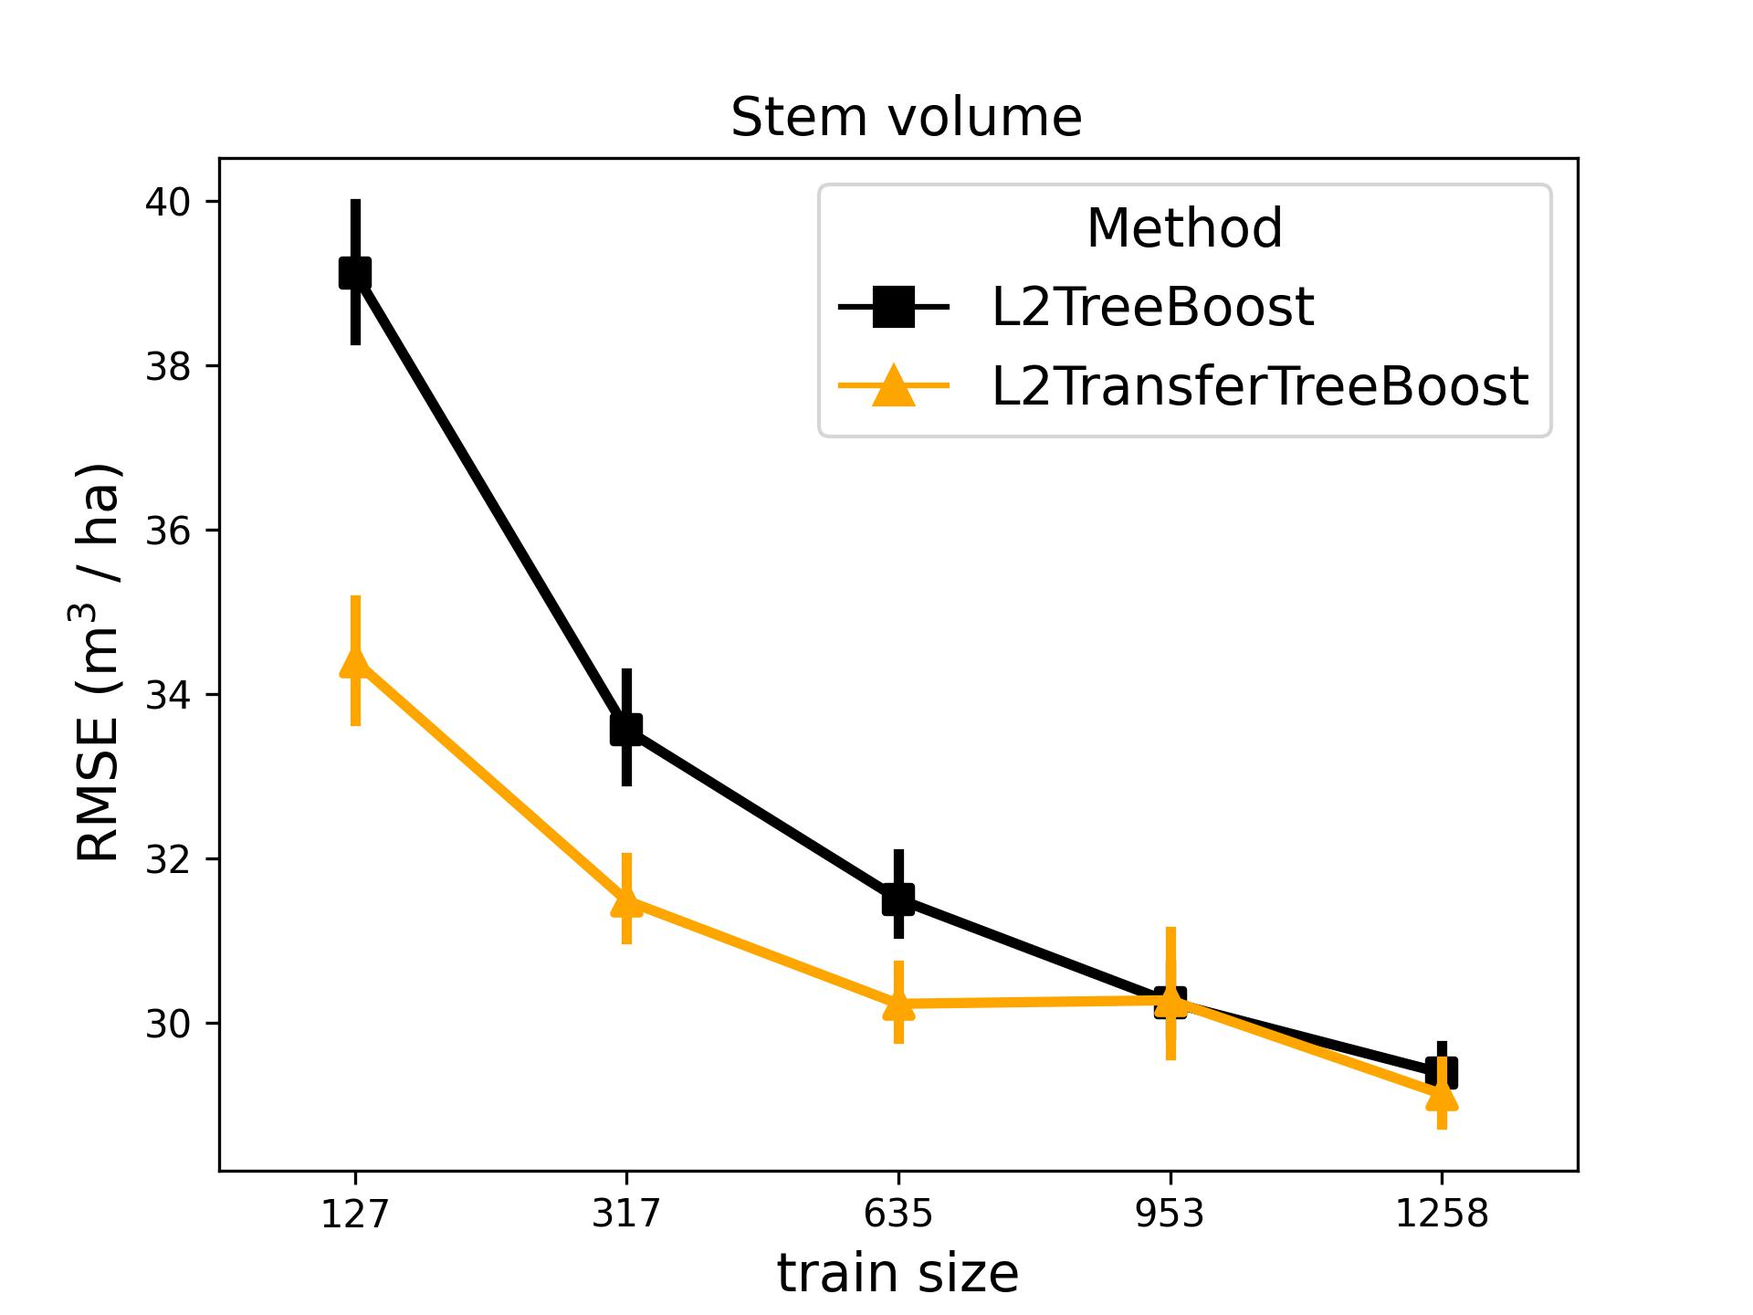
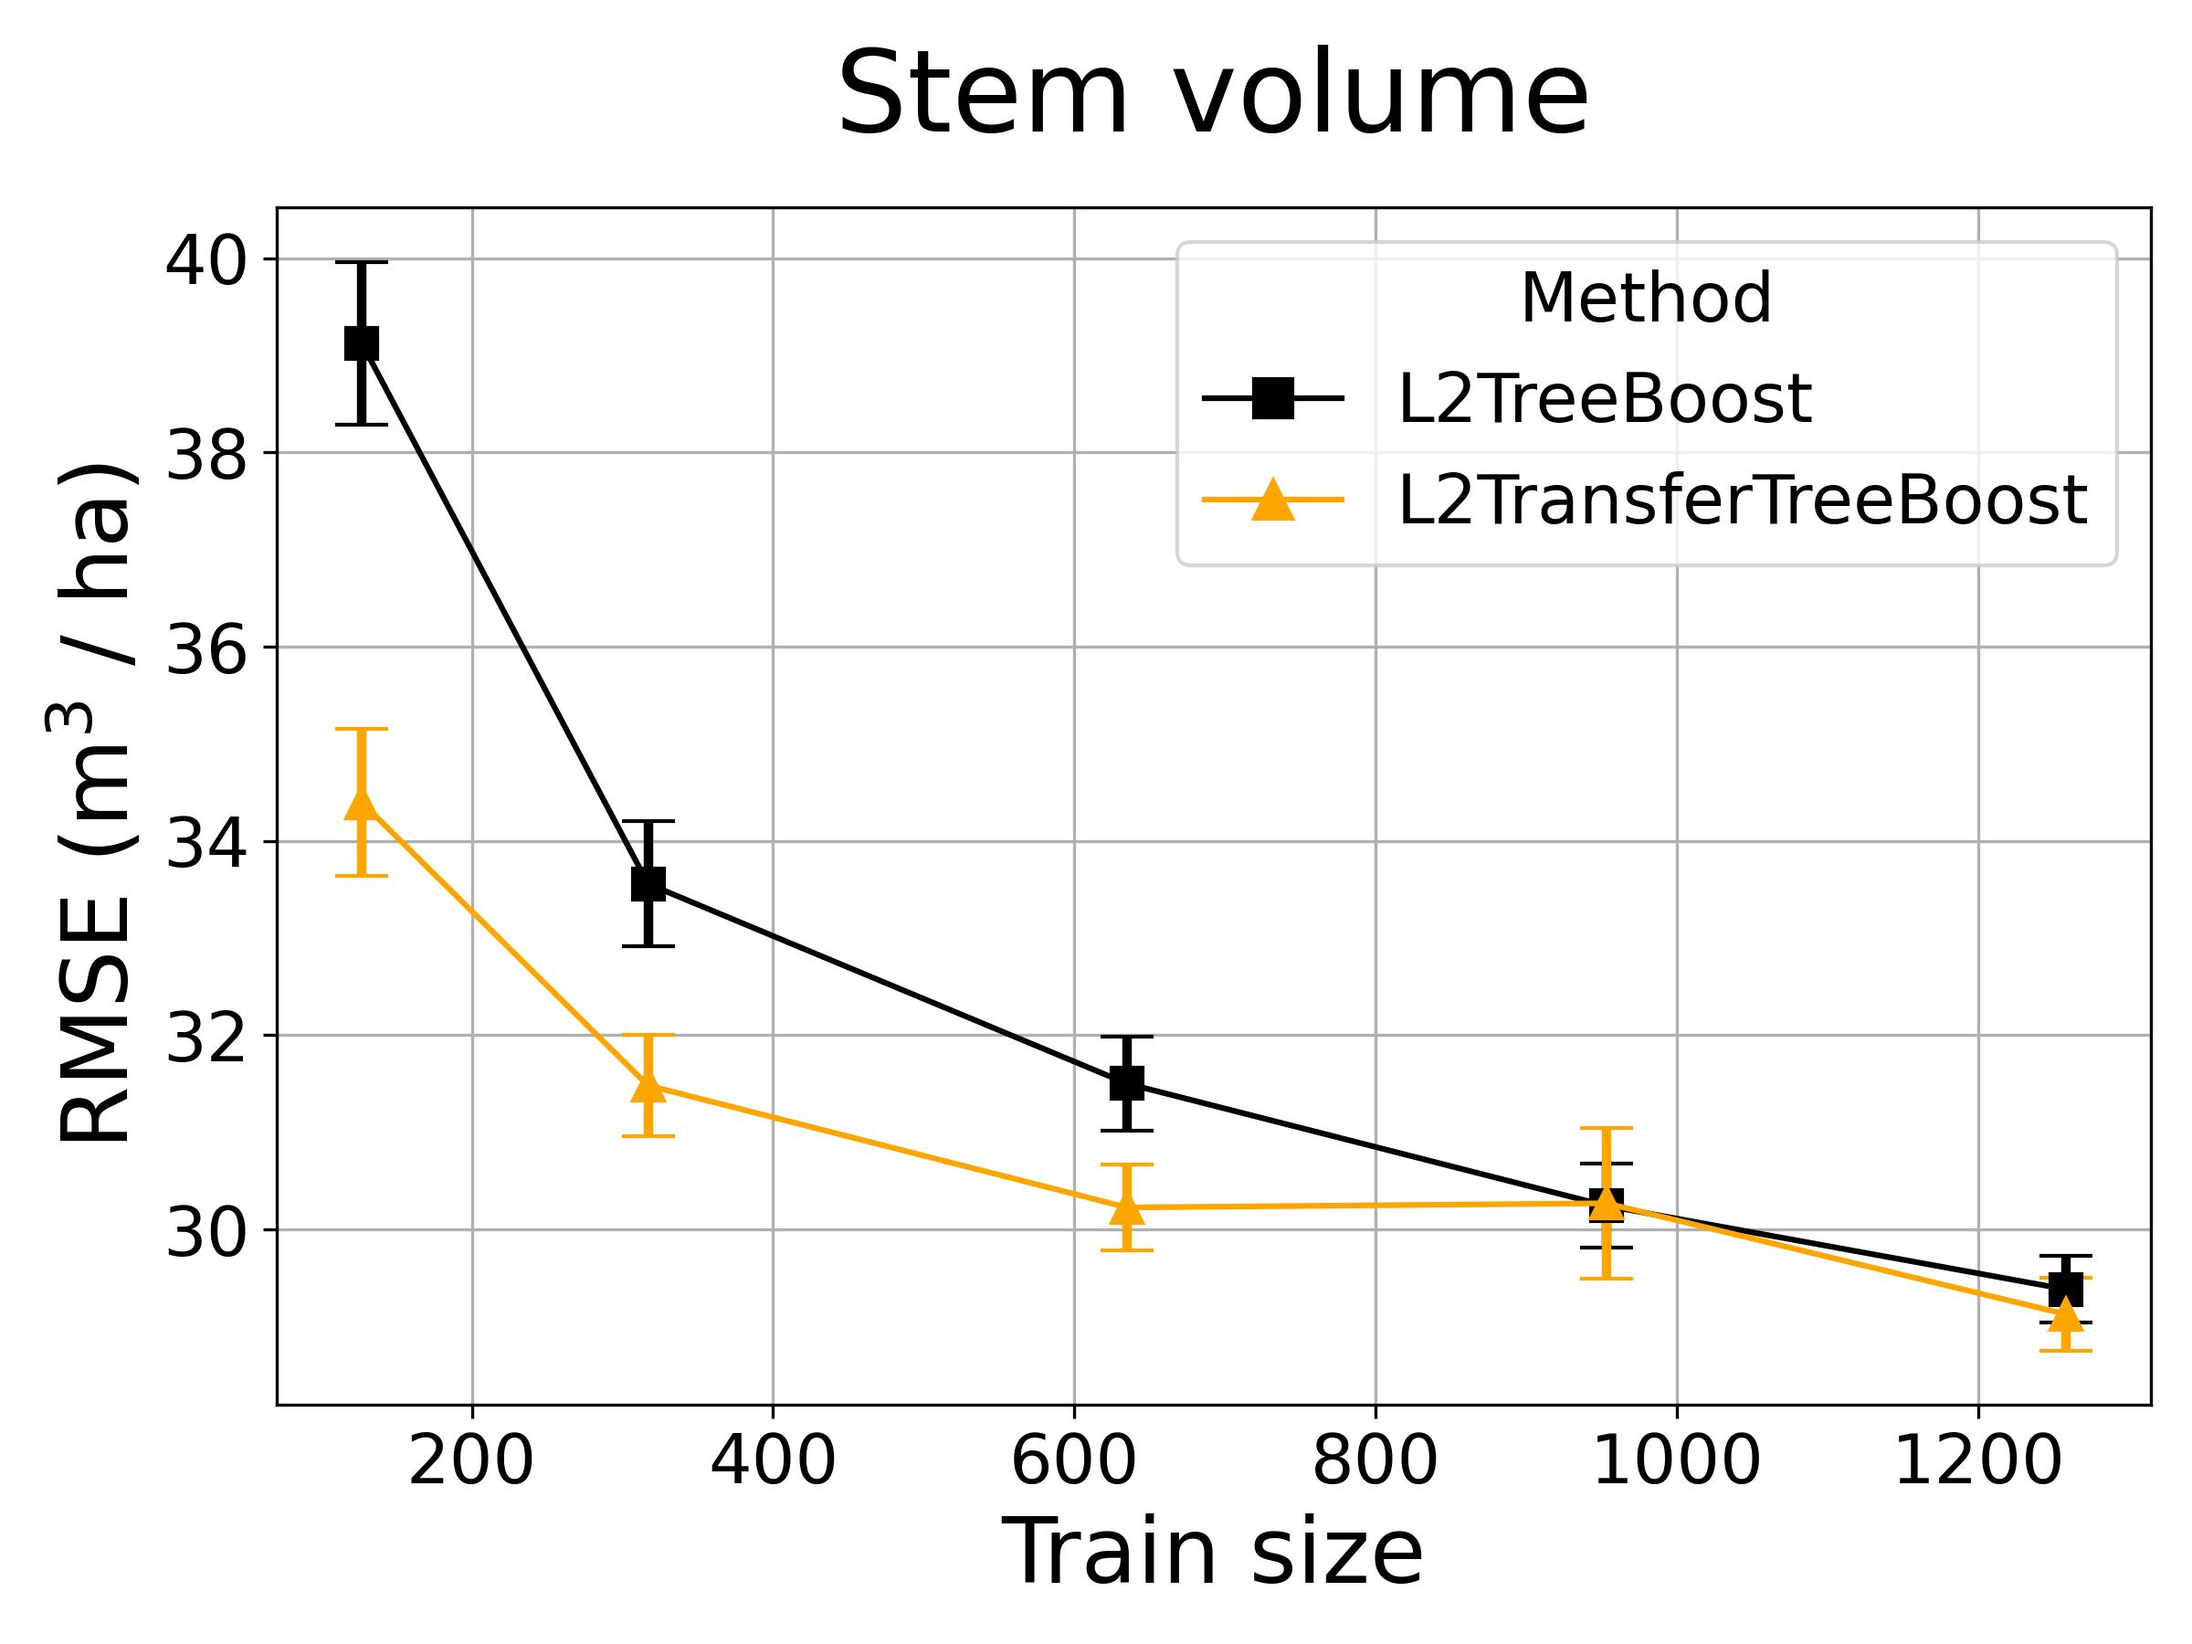
final vizez!

diff --git a/boosting/final_viz.py b/boosting/final_viz.py
@@ -9,7 +9,7 @@ import os
 
 VIZ_FOLDER = 'viz\optimal_viz'
 RES_FOLDER = 'res\optimal_res'
-TARGET_DATA = 'Norrland'
+TARGET_DATA = 'Lettland'
 RESPONSE_VARIABLE = 'Dgv'
 
 if RESPONSE_VARIABLE == 'Dgv':
@@ -42,29 +42,57 @@ def read_notransfer_data(TARGET_DATA, RESPONSE_VARIABLE):
 
 
 def create_plots(data, data_notransfer):
+    import matplotlib.lines as mlines
 
     data['method'] = 'L2TransferTreeBoost'
     data_notransfer['method'] = 'L2TreeBoost'
     columns = ['method', 'train_size', 'test_rmse']
     datavis = pd.concat([data_notransfer[columns], data[columns]])
     datavis['train_size'] = datavis['train_size'].astype(int)
-    custom_palette = {"L2TreeBoost": "black", "L2TransferTreeBoost": "orange"}
-    custom_markers = ["s", "^"]
-    sns.pointplot(data=datavis, x='train_size', y='test_rmse', hue = 'method', 
-                  palette=custom_palette, markers = custom_markers, dodge=True)
-    
-    custom_handles = [
-    plt.Line2D([0], [0], marker='s', color='black', linestyle='-', markersize=10, label='L2TreeBoost'),
-    plt.Line2D([0], [0], marker='^', color='orange', linestyle='-', markersize=10, label='L2TransferTreeBoost'),
-]
-    plt.xlabel("train size", fontsize = 14)     # X-axis label
-    plt.ylabel(f"RMSE ({unit})", fontsize = 14)  # Y-axis label
-    plt.title(f" {label_to_use}", fontsize = 14)    # Optional title
-    plt.legend(fontsize=14)
-    plt.legend(handles=custom_handles, fontsize = 14, title="Method", title_fontsize = 14)
-    plt.savefig(os.path.join(VIZ_FOLDER, f'results_{TARGET_DATA}_{RESPONSE_VARIABLE}.jpg'), dpi = 300)
+
+    # Compute mean, std, and 95% CI
+    grouped = datavis.groupby(['method', 'train_size'])
+    summary = grouped['test_rmse'].agg(['mean', 'std', 'count']).reset_index()
+    summary['ci95'] = 1.96 * summary['std'] / np.sqrt(summary['count'])
+
+    fig, ax = plt.subplots(figsize=(8, 6))
+
+    method_styles = {
+        'L2TreeBoost': {'color': 'black', 'marker': 's'},
+        'L2TransferTreeBoost': {'color': 'orange', 'marker': '^'}
+    }
+
+    for method, style in method_styles.items():
+        subset = summary[summary['method'] == method]
+        ax.errorbar(
+            subset['train_size'],
+            subset['mean'],
+            yerr=subset['ci95'],
+            fmt=style['marker'] + '-',
+            color=style['color'],
+            label=method,
+            capsize=7,
+            elinewidth=2.5,
+            markerfacecolor=style['color'],
+            markersize=8
+        )
+
+    ax.set_xlabel("Train size", fontsize=24)
+    ax.set_ylabel(f"RMSE ({unit})", fontsize=24)
+    ax.set_title(f"{label_to_use}", fontsize=30, pad = 20)
+    ax.tick_params(axis='both', which='major', labelsize=18) 
+    ax.grid(True)
+
+    handles = [
+        mlines.Line2D([], [], color='black', marker='s', linestyle='-', label='L2TreeBoost', markersize = 10),
+        mlines.Line2D([], [], color='orange', marker='^', linestyle='-', label='L2TransferTreeBoost', markersize = 10)
+    ]
+    ax.legend(handles=handles, title="Method", fontsize=18, title_fontsize=18)
+
+    plt.tight_layout()
+    plt.savefig(os.path.join(VIZ_FOLDER, f'results_{TARGET_DATA}_{RESPONSE_VARIABLE}.jpg'), dpi=300)
     plt.close('all')
-    return None
+
 
 data = combine_datasets(TARGET_DATA, RESPONSE_VARIABLE)
 data_notransfer = read_notransfer_data(TARGET_DATA, RESPONSE_VARIABLE)
